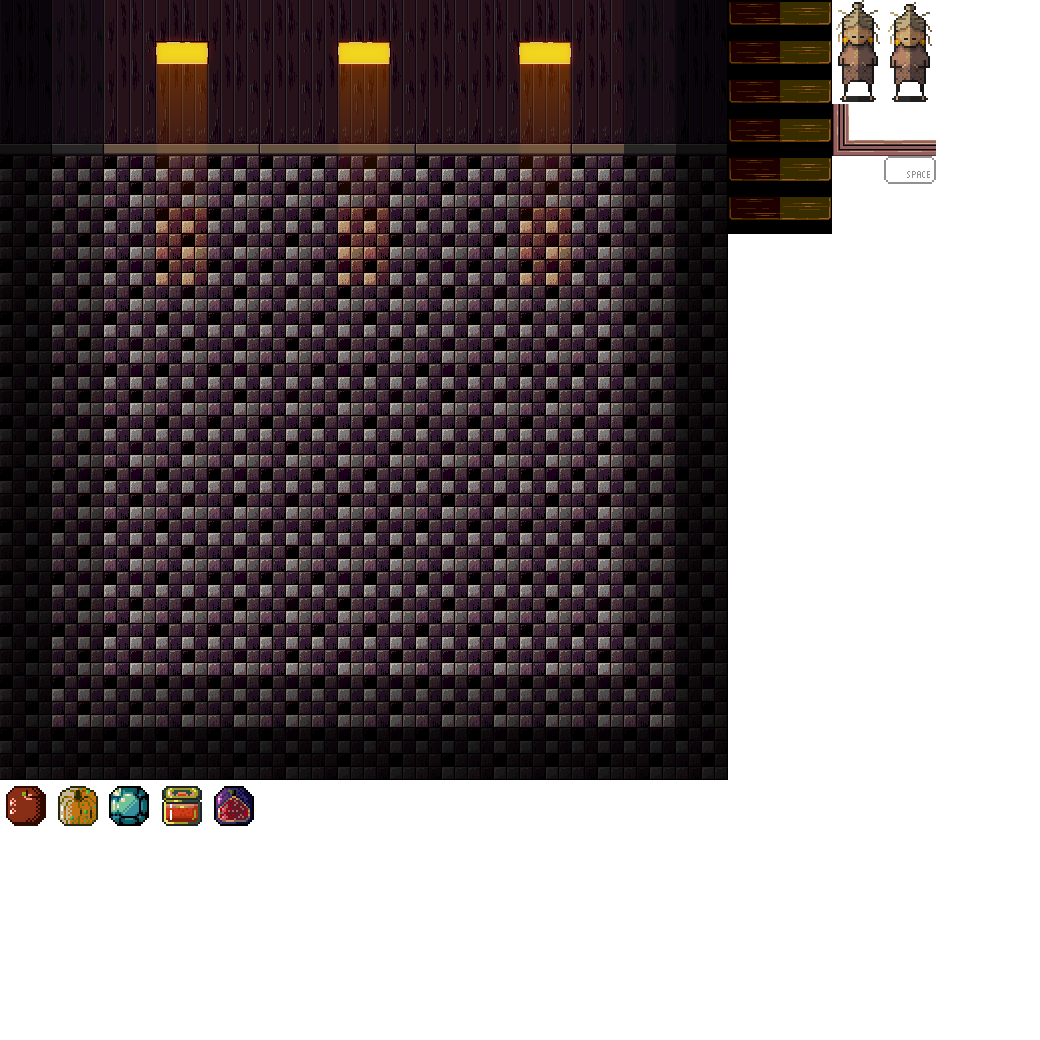
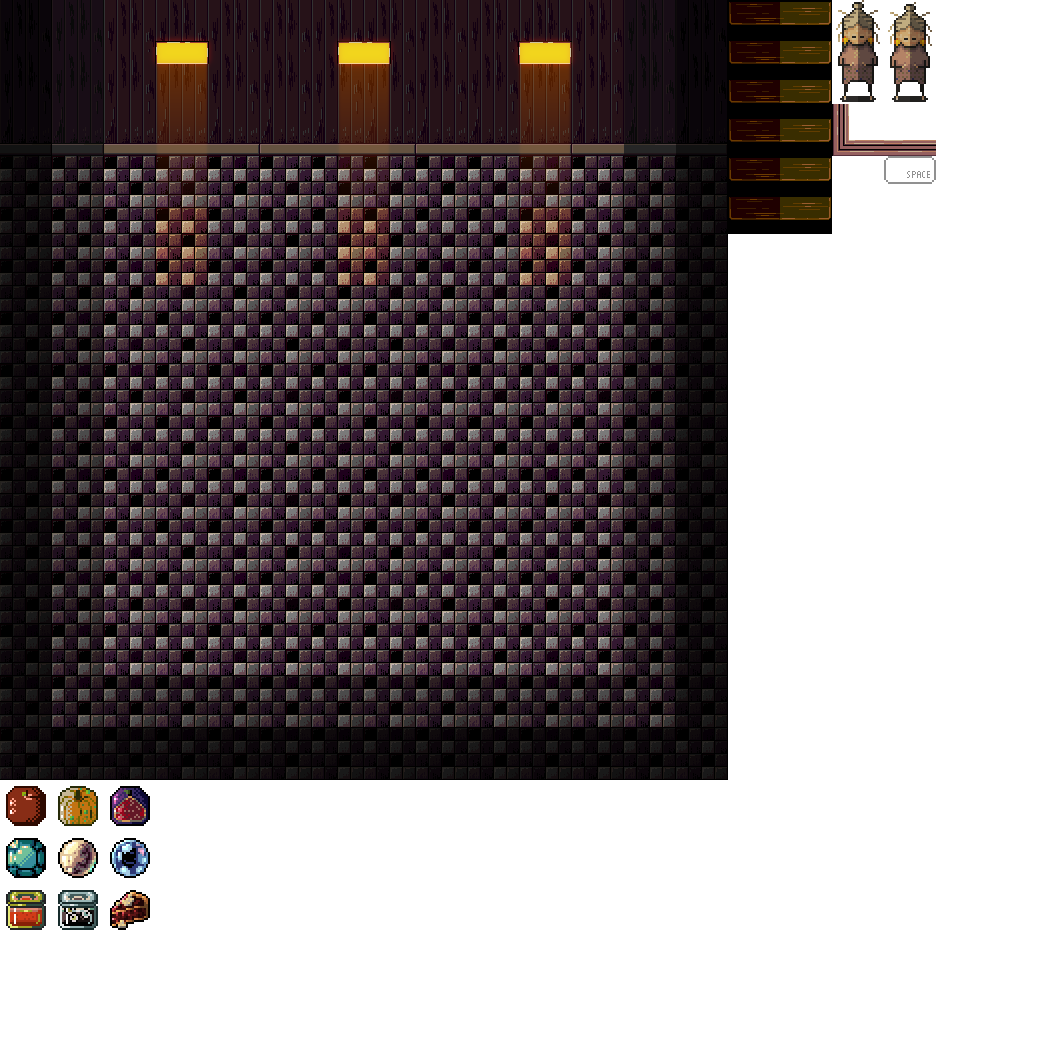
New ingredients sprites - Notification shows ignredient and label

Changed region(s): [[0.0, 0.7385, 0.2462, 0.8923]]

diff --git a/src/plugins/NotificationPlugin.js b/src/plugins/NotificationPlugin.js
@@ -1,3 +1,4 @@
+import { selectById } from "@utils/data";
 import {
     MODAL_H,
     MODAL_W,
@@ -19,12 +20,48 @@ export default class NotificationPlugin extends Phaser.Plugins.BasePlugin
         this.#game = pluginManager.game;
     }
 
-    newIngredient() {
+    newIngredient(ingredientId = null) {
         const mainScene = this.#game.scene.getScene('main');
+        let groupChildren = [];
 
         const modal = this.#buildModal();
-        const text = this.#buildText('New ingredient !');
-        const group = mainScene.add.group([ modal, text ]);
+        const text = this.#buildText('You found a new item !');
+        groupChildren.push(modal, text);
+
+        if (ingredientId) {
+            const { ingredients } = this.#game.cache.json.get('game');
+            console.log(this.#game)
+            const { label } = selectById(ingredients.items, ingredientId);
+            
+            const ingredientLabel = this.#buildText(label)
+                .setY(MODAL_Y + MODAL_H - 20);
+
+            const ingredientSprite = mainScene.add.sprite(
+                MODAL_X + MODAL_W / 2,
+                MODAL_Y + MODAL_H / 2,
+                'main',
+                `ingredient${ingredientId}`,
+            ).setOrigin(0.5, 0.5);
+
+            groupChildren.push(ingredientLabel, ingredientSprite);
+
+            mainScene.tweens.addMultiple([
+                {
+                    targets: ingredientLabel,
+                    y: ingredientLabel.y + 10,
+                    duration: 600,
+                    ease: 'quad.out'
+                },
+                {
+                    targets: ingredientSprite,
+                    y: ingredientSprite.y + 10,
+                    duration: 600,
+                    ease: 'quad.out',
+                }
+            ]);
+        }
+
+        const group = mainScene.add.group(groupChildren);
 
         group.setName('modal_newIngredient')
             .setDepth(2);
@@ -44,7 +81,7 @@ export default class NotificationPlugin extends Phaser.Plugins.BasePlugin
             }
         ]);
         
-        setTimeout(() => group.destroy(true), 1500);
+        setTimeout(() => group.destroy(true), 2500);
     }
 
     //--------------

diff --git a/src/scenes/MainScene.js b/src/scenes/MainScene.js
@@ -154,7 +154,7 @@ export default class MainScene extends Phaser.Scene
         } = tree.levelUpBranch(score.amounts);
 
         if (addId) {
-            notification.newIngredient();
+            notification.newIngredient(addId);
 
             supply.addIngredient(addId, removeId);
             grid.voidByIngredientId(removeId);

diff --git a/src/constants.js b/src/constants.js
@@ -20,7 +20,7 @@ export const LARGE_DIALOG_Y = 104;
 export const LARGE_DIALOG_X = 484;
 export const MERCURIA_X = 900;
 export const MERCURIA_Y = 104;
-export const MODAL_H = 104;
+export const MODAL_H = 156;
 export const MODAL_W = 364;
 export const MODAL_Y = 364;
 export const MODAL_X = 457;
